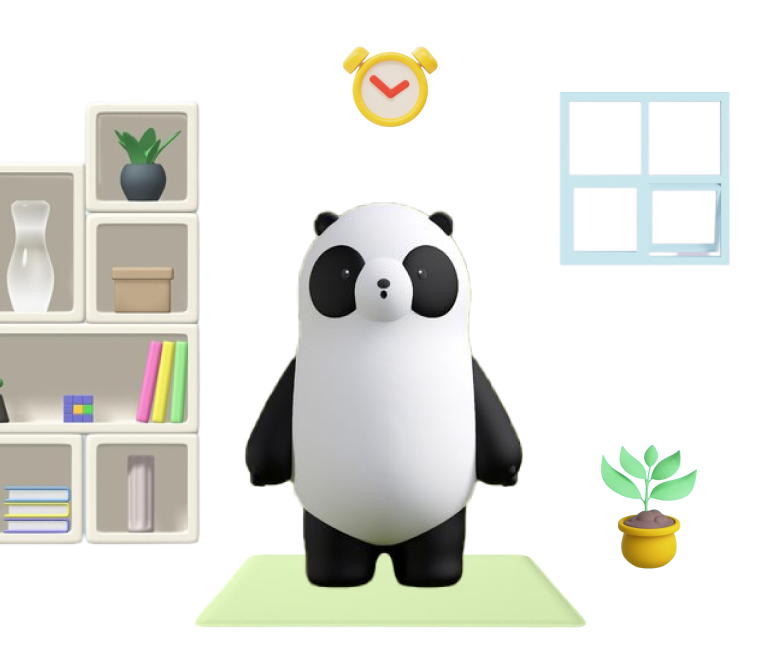
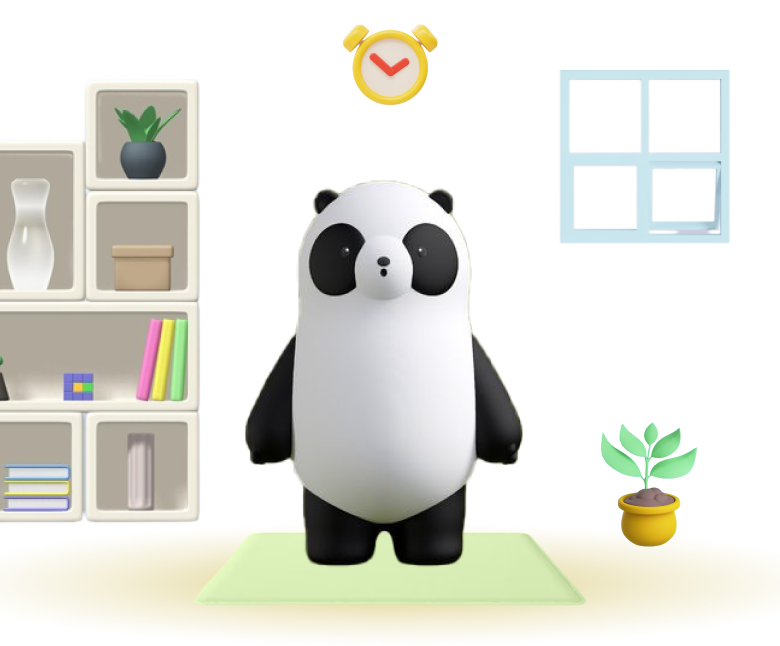
home

diff --git a/lib/src/pages/home.dart b/lib/src/pages/home.dart
@@ -101,13 +101,13 @@ class Home extends StatelessWidget {
               //SizedBox(height: 60.0), //70
               Stack(
                 children: [
-                  Container(
+                  /*Container(
                     width: size.width,
                     height: 334,
                     decoration: BoxDecoration(
                       color: Color(0xffd9d9d9),
                     ),
-                  ),
+                  ),*/
                   Container(
                     width: size.width,
                     height: 332,
